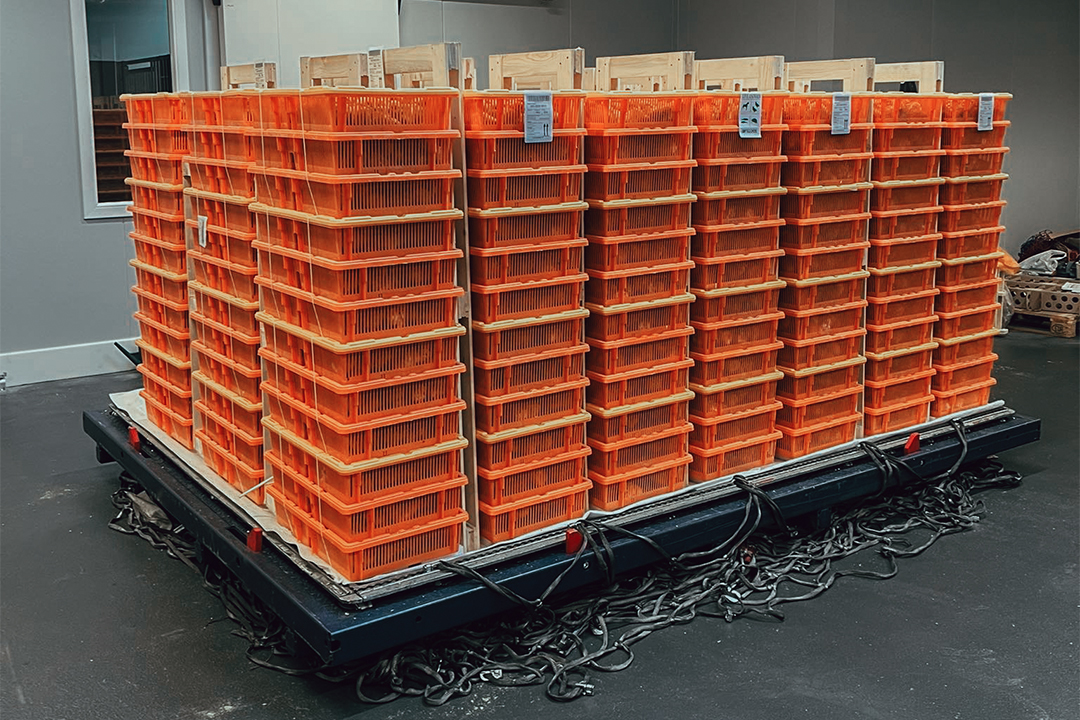
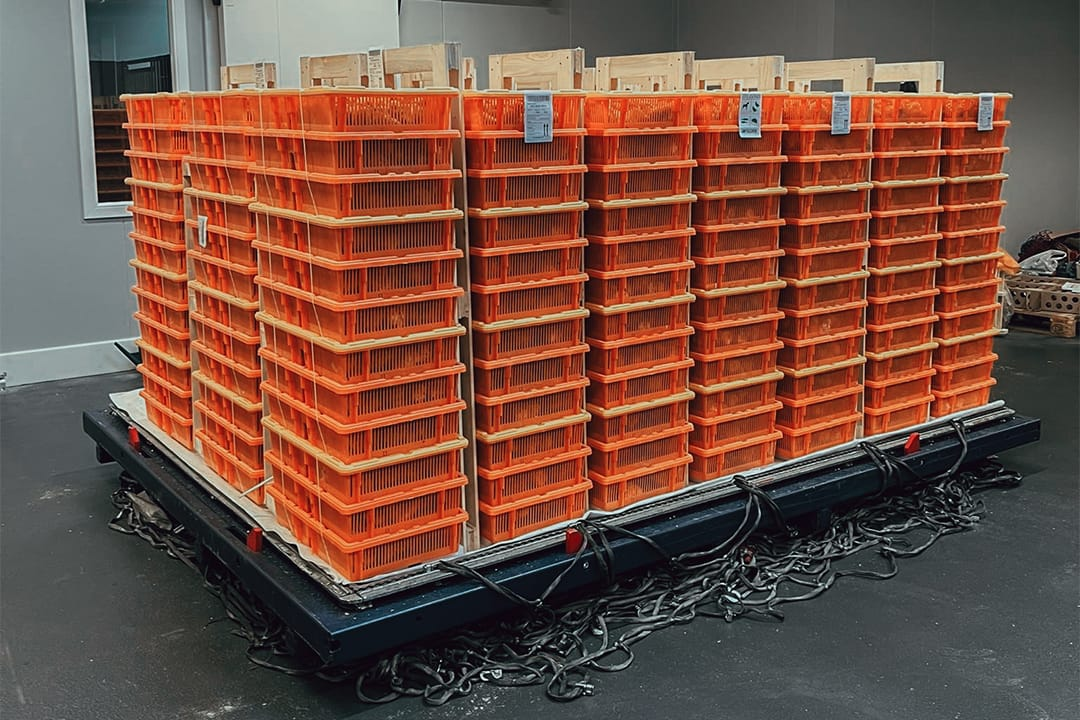
optimize images

diff --git a/pages/styles/avi.module.scss b/pages/styles/avi.module.scss
@@ -103,6 +103,12 @@
   display: grid;
   gap: 1.5rem;
   position: relative;
+  @include mixins.breakpoint-up(md) {
+    gap: 2rem;
+  }
+  @include mixins.breakpoint-up(lg) {
+    gap: 3rem;
+  }
 }
 
 .article__bar {
